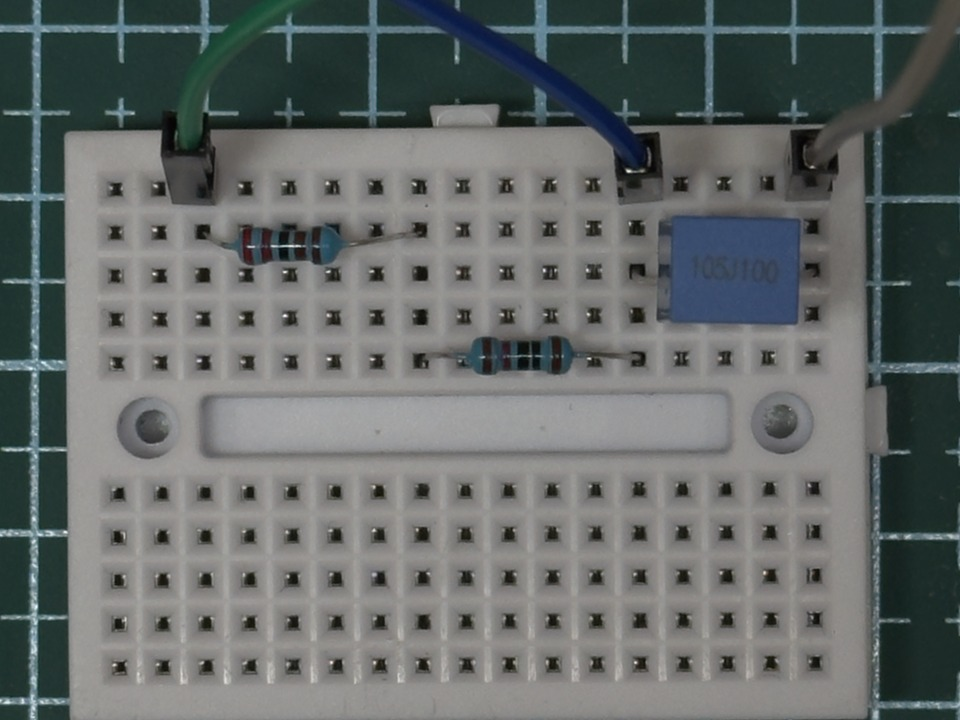
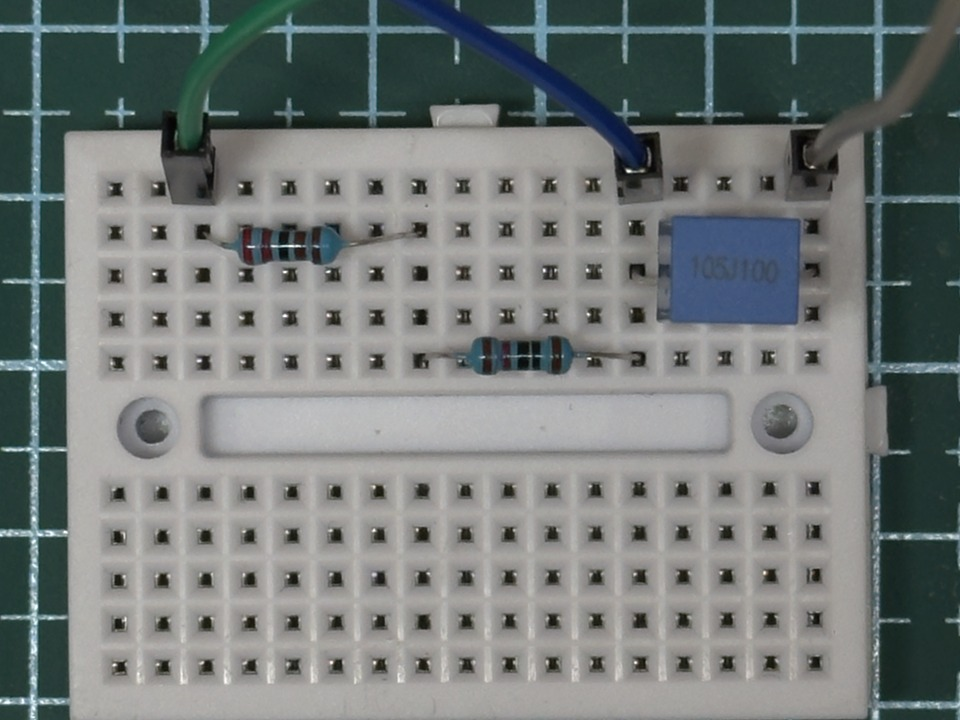
Site: landing for the judges' first minute, the bench section, one brightness lift
- Landing: claim → scope → "Counted from the records" strip → one block per case with its
  fault replay, restored rerun and report (the separate replay list is gone, numbers read
  01–05 once) → "The bench" → How a run works → Who does what → Built during the hackathon.
- The bench: whole-bench photo from examples/bench-photos/2026-11-04/full/render.png (cropped,
  brightened uniformly, no metadata; tools/photos-bench.json), an inline SVG of the signal chain
  (DAC → LM358 follower → 1 kΩ → IN; OUT → follower → 14-bit ADC; buffered 1.63 V REF; 3 mV
  guard; 9 mV allowance; 9.99 kΩ load on request) and a Source / Recorder / Reference /
  Allowance / Operator / Cost table, from docs/build-your-own.md.
- Board crops: one uniform brightness lift (×1.15) in tools/photo_derivatives.py, recorded in
  every photos-case0N.json; nothing else changed.
- Phone layout of the case blocks fixed (text no longer falls into the number column).
- Checks: all 20 replay/viewport combinations reach the verdict, 0 console errors, 0 overflow.

Claude-Session: https://claude.ai/code/session_016yJ6onsusv49FZT69Jxk9m

diff --git a/site/index.html b/site/index.html
@@ -13,13 +13,13 @@
 <body>
 <header class="bar">
   <a class="brand" href="index.html"><img src="assets/mark.svg" alt=""> BenchMate</a>
-  <nav><a href="#replays">Replays</a><a href="#cases">Cases</a><a href="#how" class="lng">How it works</a><a href="https://github.com/bami-codes/BenchMate">GitHub</a></nav>
+  <nav><a href="#cases">Cases</a><a href="#bench">The bench</a><a href="#how" class="lng">How it works</a><a href="#built">Built</a><a href="https://github.com/bami-codes/BenchMate">GitHub</a></nav>
 </header>
 
 <section class="claim claim-top" aria-label="What this is">
   <h1>The drawing is right. The board is right. <span class="wrong">The output is wrong.</span></h1>
-  <p>BenchMate finds where a real circuit disagrees with its schematic. Muse Spark reads the drawing and designs experiments on the real board until only one explanation is left.</p>
-  <div class="ctas"><a class="btn" id="cta-replay" href="run.html">Watch Spark find out why</a><a class="btn ghost" href="#cases" id="cta-cases">See the cases</a></div>
+  <p>BenchMate gives Muse Spark a real bench. It reads the schematic, chooses experiments on the real circuit, must forecast each one before an Arduino measures it, and keeps crossing out explanations until one is left. Five faults were planted on five boards and sealed; the model found where each board disagreed with its drawing, and every step is a record you can check.</p>
+  <div class="ctas"><a class="btn" id="cta-replay" href="run.html">Watch Spark find out why</a><a class="btn ghost" href="#cases" id="cta-cases">See the five cases</a></div>
 </section>
 
 <section class="hero" aria-label="The scope">
@@ -32,21 +32,86 @@
 
 <section class="claim claim-under"><div class="small" id="hero-caption" style="opacity:.9"></div></section>
 
-<section class="section" id="replays">
+<section class="section" id="score" hidden>
   <div class="paper">
-    <h2>Watch a diagnosis</h2>
-    <p class="lede">Recorded runs on the real bench, replayed from their logs in order. Before each measurement the dashed forecasts are drawn; then the measured trace sweeps over them and the needles move. Click any number for the log event behind it.</p>
-    <div class="cases" id="replay-list"></div>
+    <h2>Counted from the records</h2>
+    <p class="lede" id="score-note"></p>
+    <div class="score" id="score-grid"></div>
+    <p class="small muted" id="score-foot" style="margin-top:10px"></p>
   </div>
 </section>
 
 <section class="section" id="cases">
   <div class="paper">
-    <h2 id="cases-h">Cases from real forum threads</h2>
+    <h2 id="cases-h">Five cases from real forum threads</h2>
     <p class="small muted" id="cases-count"></p>
-    <p class="lede">Each case rebuilds a problem whose cause was settled in the thread, scaled to the bench: the first power-on moment, when the drawing is right and the board still misbehaves. Every case has its own circuit on the mini board and its own drawing; all use the same procedure, the same test menu and the same fixture.</p>
+    <p class="lede">Each case rebuilds a problem whose cause was settled in the thread, scaled to the bench: the first power-on moment, when the drawing is right and the board still misbehaves. Every case has its own circuit on the mini board and its own drawing; all use the same procedure, the same test menu and the same fixture. Each replay is a recorded run played back from its log in order: the dashed forecasts are drawn, then the measured trace sweeps over them and the needles move. Click any number for the log event behind it.</p>
     <div class="cases" id="case-list"></div>
+    <div id="dev-records"></div>
     <div id="policy" class="small muted" style="margin-top:12px"></div>
+  </div>
+</section>
+
+<section class="section" id="bench">
+  <div class="paper">
+    <h2>The bench</h2>
+    <p class="lede">One Arduino, two op-amp followers, a reference, and a mini board that holds the circuit under test. About $40 of parts. The model never touches it: it asks, the operator moves one jumper, the Arduino measures.</p>
+    <div class="bench-grid">
+      <figure class="bench-photo">
+        <img src="assets/photos/bench-full.jpg" alt="The whole bench from above: an Arduino UNO R4 Minima at the top right, the instrument breadboard with two LM358 followers across the middle, and the mini board under test at the bottom, all on a cutting mat" loading="lazy">
+        <figcaption class="small muted">The whole bench, photographed from above. Arduino UNO R4 Minima (top right), the instrument board (middle), the mini board under test (bottom). Brightened uniformly for the page; nothing else edited (<code>tools/photos-bench.json</code>).</figcaption>
+      </figure>
+      <div class="bench-side">
+        <div class="bench-diagram" aria-label="Signal chain of the bench">
+          <svg viewBox="0 0 760 300" role="img" aria-label="Signal chain: Muse Spark chooses; the engine forecasts; the Arduino drives IN through a follower and a 1 kΩ resistor, the mini board's OUT comes back through a follower to the ADC, REF is a buffered 1.63 V; the operator moves one jumper and takes one multimeter reading when asked.">
+            <defs><marker id="ar" viewBox="0 0 10 10" refX="9" refY="5" markerWidth="7" markerHeight="7" orient="auto-start-reverse"><path d="M0 0L10 5 0 10z" fill="#4b535a"/></marker></defs>
+            <g font-family="Archivo Narrow, Arial, sans-serif" font-size="13" fill="#171b1e">
+              <rect x="14" y="18" width="150" height="54" rx="6" fill="#efe8ff" stroke="#7a4fd6" stroke-width="1.5"/>
+              <text x="89" y="40" text-anchor="middle" font-weight="600">Muse Spark 1.3</text><text x="89" y="58" text-anchor="middle" font-size="12" fill="#4b535a">chooses the experiment</text>
+              <rect x="196" y="18" width="150" height="54" rx="6" fill="#f0f0ea" stroke="#171b1e" stroke-width="1.5"/>
+              <text x="271" y="40" text-anchor="middle" font-weight="600">Fit engine · ngspice</text><text x="271" y="58" text-anchor="middle" font-size="12" fill="#4b535a">forecast, hash, push</text>
+              <rect x="378" y="18" width="150" height="54" rx="6" fill="#e3ecf7" stroke="#2b6bdc" stroke-width="1.5"/>
+              <text x="453" y="40" text-anchor="middle" font-weight="600">Arduino UNO R4</text><text x="453" y="58" text-anchor="middle" font-size="12" fill="#4b535a">DAC out · 14-bit ADC in</text>
+              <rect x="560" y="18" width="186" height="54" rx="6" fill="#fff6d6" stroke="#c9a227" stroke-width="1.5"/>
+              <text x="653" y="40" text-anchor="middle" font-weight="600">Operator</text><text x="653" y="58" text-anchor="middle" font-size="12" fill="#4b535a">one jumper · one DMM reading, when asked</text>
+              <line x1="164" y1="45" x2="196" y2="45" stroke="#4b535a" stroke-width="1.5" marker-end="url(#ar)"/>
+              <line x1="346" y1="45" x2="378" y2="45" stroke="#4b535a" stroke-width="1.5" marker-end="url(#ar)"/>
+              <line x1="528" y1="45" x2="560" y2="45" stroke="#4b535a" stroke-width="1.5" stroke-dasharray="4 3" marker-end="url(#ar)"/>
+              <!-- analogue chain -->
+              <text x="14" y="118" font-size="12" fill="#4b535a" font-weight="600">Analogue chain, 0–5 V, USB power only</text>
+              <rect x="14" y="132" width="78" height="40" rx="5" fill="#fff" stroke="#171b1e" stroke-width="1.5"/><text x="53" y="151" text-anchor="middle" font-weight="600">DAC</text><text x="53" y="165" text-anchor="middle" font-size="11" fill="#4b535a">step or sine</text>
+              <polygon points="112,134 112,170 146,152" fill="#fff" stroke="#171b1e" stroke-width="1.5"/><text x="129" y="188" text-anchor="middle" font-size="11" fill="#4b535a">LM358</text>
+              <rect x="166" y="144" width="54" height="16" fill="#fff" stroke="#171b1e" stroke-width="1.5"/><text x="193" y="137" text-anchor="middle" font-size="11.5">1 kΩ</text>
+              <line x1="92" y1="152" x2="112" y2="152" stroke="#171b1e" stroke-width="1.5"/><line x1="146" y1="152" x2="166" y2="152" stroke="#171b1e" stroke-width="1.5"/><line x1="220" y1="152" x2="262" y2="152" stroke="#1f9a52" stroke-width="3"/>
+              <circle cx="248" cy="152" r="4" fill="#1f9a52"/><text x="248" y="140" text-anchor="middle" font-size="12" font-weight="600" fill="#1f9a52">IN</text>
+              <rect x="262" y="118" width="206" height="68" rx="6" fill="#f6f7f4" stroke="#8c939a" stroke-width="1.5" stroke-dasharray="5 4"/>
+              <text x="365" y="141" text-anchor="middle" font-weight="600">mini board under test</text><text x="365" y="159" text-anchor="middle" font-size="12" fill="#4b535a">the circuit the drawing shows,</text><text x="365" y="174" text-anchor="middle" font-size="12" fill="#4b535a">plus one sealed fault</text>
+              <line x1="468" y1="152" x2="520" y2="152" stroke="#2b6bdc" stroke-width="3"/><circle cx="482" cy="152" r="4" fill="#2b6bdc"/><text x="482" y="140" text-anchor="middle" font-size="12" font-weight="600" fill="#2b6bdc">OUT</text>
+              <polygon points="520,134 520,170 554,152" fill="#fff" stroke="#171b1e" stroke-width="1.5"/><text x="537" y="188" text-anchor="middle" font-size="11" fill="#4b535a">LM358</text>
+              <line x1="554" y1="152" x2="580" y2="152" stroke="#171b1e" stroke-width="1.5"/>
+              <rect x="580" y="132" width="78" height="40" rx="5" fill="#fff" stroke="#171b1e" stroke-width="1.5"/><text x="619" y="151" text-anchor="middle" font-weight="600">ADC</text><text x="619" y="165" text-anchor="middle" font-size="11" fill="#4b535a">512 frames / 0.5 ms</text>
+              <text x="705" y="148" font-size="11.5" fill="#4b535a">IN, OUT and</text><text x="705" y="162" font-size="11.5" fill="#4b535a">REF, every run</text>
+              <!-- REF -->
+              <line x1="365" y1="186" x2="365" y2="222" stroke="#8b949b" stroke-width="3"/>
+              <line x1="120" y1="222" x2="660" y2="222" stroke="#8b949b" stroke-width="3"/>
+              <circle cx="365" cy="222" r="4" fill="#8b949b"/>
+              <text x="120" y="244" font-size="12" font-weight="600" fill="#5b646b">REF · a buffered 1.63 V, not ground</text>
+              <text x="120" y="260" font-size="11.5" fill="#4b535a">the bench watches its own reference on every capture and stops the run if it drifts more than 3 mV</text>
+              <rect x="470" y="196" width="118" height="20" rx="4" fill="#fff" stroke="#8b949b" stroke-width="1.2" stroke-dasharray="4 3"/><text x="529" y="210" text-anchor="middle" font-size="11" fill="#4b535a">9.99 kΩ load, on request</text>
+              <text x="14" y="290" font-size="11.5" fill="#4b535a">Every explanation is a circuit model; the engine simulates it with the measured IN and forecasts OUT. A miss above 9 mV, whole step or any region, rules it out.</text>
+            </g>
+          </svg>
+        </div>
+        <dl class="kv small bench-kv">
+          <dt>Source</dt><dd>Arduino UNO R4 Minima DAC through an LM358 follower and a 1 kΩ drive resistor. Steps of ±0.2 / ±0.5 V and sines of 1–5 Hz, from a fixed menu Spark picks from.</dd>
+          <dt>Recorder</dt><dd>14-bit ADC, 512 frames per capture at 0.5 ms, three channels: IN, buffered OUT, REF. Captures are rejected across reboots; each run starts from a fresh boot id.</dd>
+          <dt>Reference</dt><dd>A buffered divider near 1.63 V is the return for the circuit under test. A guard checks it on every capture; a drift above 3 mV stops the run and nothing is scored.</dd>
+          <dt>Allowance</dt><dd>9 mV RMS between forecast and measurement, on the whole step and on every region of it. Frozen before the first run and never changed.</dd>
+          <dt>Operator</dt><dd>Connects or removes the 9.99 kΩ load when Spark asks, USB off; takes one multimeter reading when Spark asks; never tells the model what the fault is.</dd>
+          <dt>Cost</dt><dd>About ₩56,000 ($40) of parts including spares, plus a multimeter. <a href="https://github.com/bami-codes/BenchMate/blob/main/docs/build-your-own.md">Build notes</a>.</dd>
+        </dl>
+      </div>
+    </div>
   </div>
 </section>
 
@@ -71,20 +136,26 @@
   <div class="paper">
     <h2>Who does what</h2>
     <dl class="who">
-      <dt>Muse Spark 1.3 vision</dt><dd>Reads the schematic into parts, values and connections, with a box per part.</dd>
-      <dt>Muse Spark 1.3</dt><dd>Chooses every experiment from the fixed menu and says why; asks for the bench to be rewired; decides when to ask for the check; may propose a part the drawing lacks.</dd>
-      <dt>Fit engine, ngspice</dt><dd>Fits each explanation to the measurements and forecasts the next one. Compares forecasts with the bench by RMS miss.</dd>
-      <dt>Bench, Arduino UNO R4</dt><dd>Two LM358 buffers, a 1 kΩ drive resistor, a 1.63 V reference and four ADC channels. A reference guard stops a run when the bench itself drifts.</dd>
-      <dt>SAM 3.1 + Muse Spark vision</dt><dd>After the diagnosis: SAM 3.1 segments the mini board photo; Spark vision is asked which body is which drawn part, and a person confirms. When it names none (case 02), the bodies are read without a pairing and the bands frozen first decide which is which. No part values are read from the photo; values come from readings at the bench, forecast first.</dd>
+      <dt>Muse Spark 1.3 vision</dt><dd>Reads the schematic into parts, values and connections, with a box per part. After the diagnosis, looks at the board photo with SAM 3.1's bodies and says which body is the part to read (cases 01, 03, 05), or that it cannot tell (case 02).</dd>
+      <dt>Muse Spark 1.3 agent</dt><dd>Chooses every experiment from the fixed menu and says why; asks for the bench to be rewired; decides when to ask for the check; proposes a part the drawing lacks when every value explanation has failed (cases 04, 05); chooses which part to read and which quantity (cases 01, 02, 03, 05).</dd>
+      <dt>SAM 3.1</dt><dd>Segments the mini board photo into bodies with one generic prompt, after the diagnosis. Its masks are shown as drawn; no part value is read from the photo, ever.</dd>
+      <dt>Fit engine, ngspice</dt><dd>Fits each explanation to the measurements and forecasts the next one. Compares forecasts with the bench by RMS miss. Freezes and publishes before every scored measurement.</dd>
+      <dt>Bench, Arduino UNO R4</dt><dd>Two LM358 buffers, a 1 kΩ drive resistor, a 1.63 V reference and the ADC channels. A reference guard stops a run when the bench itself drifts.</dd>
+      <dt>Operator</dt><dd>Builds the circuit with the sealed fault, moves one jumper when asked, reads one value when asked, and never tells the model what is wrong.</dd>
     </dl>
   </div>
 </section>
 
-<section class="section" id="score" hidden>
+<section class="section" id="built">
   <div class="paper">
-    <h2>Counted from the records</h2>
-    <p class="lede" id="score-note"></p>
-    <div class="score" id="score-grid"></div>
+    <h2>Built during the hackathon</h2>
+    <p class="lede">Everything on this page was made between 27 October and 4 November 2026 by one person and two coding agents: the instrument firmware, the bench, the fit engine, the Spark tool loop, the reading and seal protocol, the photo stage, this site, and the five physical runs themselves. The first commit is the start of the project.</p>
+    <div class="built-grid">
+      <div><h3>Meta models</h3><p class="small">Muse Spark 1.3 (agent and vision) through the Meta Model API for every experiment choice, structure proposal, schematic read and body call; SAM 3.1 for every board segmentation. 101 Spark calls and 6 SAM calls across the five cases, about $1.01.</p></div>
+      <div><h3>What is new</h3><p class="small">The model is not asked to explain a measurement someone made. It designs the measurement, commits to its forecast first, and is scored by code against a fault it was never told. The experiments did not exist until the model asked for them.</p></div>
+      <div><h3>What is not claimed</h3><p class="small">Five completed cases are not an accuracy rate. Failed and abstained attempts are kept in the public ledger and named on the reports. Restored reruns show "no mismatch in the tests Spark chose", not a proof that every part is correct. The cases were known to the developers; this is not a blind test.</p></div>
+      <div><h3>Open</h3><p class="small">MIT-licensed repository with every event log, forecast hash, Spark request and verifier: <a href="https://github.com/bami-codes/BenchMate">github.com/bami-codes/BenchMate</a>. <code>python -m benchmate verify &lt;run folder&gt;</code> re-checks any record offline.</p></div>
+    </div>
   </div>
 </section>
 

diff --git a/site/assets/landing.js b/site/assets/landing.js
@@ -1,4 +1,4 @@
-// Landing: the claim, the scope, then the cases. Everything shown is read from data/.
+// Landing: the claim, the scope, the numbers, then the five cases with their recorded runs. Everything shown is read from data/.
 (async () => {
   const { $, el, expName, fmtUSD, fmtDate, schematic, boardSVG, Scope, stepTraces, stepTime, verdictWords, REDUCED, ev } = BM;
   const [cases, index, results, policy] = await Promise.all([BM.loadCases(), BM.loadRuns(), BM.loadResults(), BM.json('data/official-run-policy.json').catch(() => null)]);
@@ -42,51 +42,46 @@
     if (c01?.board) { $('#hero-board').append(boardSVG(c01.board, { crop: true })); $('#hero-board-note').textContent = 'Diagram from the wiring record; photo pending.'; }
   }
 
-  // ---- replays
-  const rl = $('#replay-list');
-  if (!runs.length) rl.append(el('p', { class: 'muted' }, 'No recorded runs yet.'));
-  const ordered = anyCounted ? [...runs.filter(r => r.counted), ...runs.filter(r => !r.counted)] : runs;
-  let devHead = false;
-  for (const r of ordered) {
-    if (anyCounted && !r.counted && !devHead) { devHead = true; rl.append(el('h3', { class: 'group-head' }, 'Development records'), el('p', { class: 'small muted' }, 'Pilots and QA runs that shaped the bench. Not counted, kept in full.')); }
-    const c = cases.cases.find(x => x.id === r.case);
-    const outcome = r.outcome === 'stopped' ? 'stopped by the reference guard' : r.display_caption ? r.display_caption : r.state === 'faulted' && r.survivors?.length === 1 ? (r.verdict === 'structure_supported' ? (r.reading === 'one' ? 'Spark proposed a part the drawing does not show; held-back checks passed; one reading, bands frozen first, placed it; seal opened' : 'Spark proposed a part the drawing does not show; held-back checks passed; seal opened') : r.reading === 'group' ? 'one explanation left after the tests; two readings, bands frozen first, fixed which body; seal opened' : 'one explanation left after one reading; seal opened') : r.verdict ? verdictWords({ verdict: r.verdict, survivors: r.survivors }, {}) : r.outcome;
-    rl.append(el('div', { class: 'case-row', style: 'grid-template-columns:40px minmax(0,1fr) auto' },
-      el('div', { class: 'n' }, r.case),
-      el('div', {}, el('h3', {}, c.title, ' ', el('span', { class: 'small muted' }, `· ${r.label}, ${fmtDate(r.started_utc)}`)),
-        el('p', { class: 'small muted' }, `${r.steps} experiments · ${r.spark_calls} Spark calls · ${fmtUSD(r.spark_cost)} est. · ${outcome}`)),
-      el('div', { class: 'acts' }, el('span', { class: 'badge ' + (r.counted ? 'live' : r.pilot ? 'pilot' : 'pending') }, r.class_label || (r.pilot ? 'Pilot run — not counted' : 'Counted run')),
-        el('a', { class: 'btn sm', href: `run.html?run=${r.id}` }, 'Replay'), el('a', { class: 'btn ghost sm', href: `case.html?id=${r.case}&run=${r.id}` }, 'Report'))));
-  }
-
-  // ---- cases: one verified forum line each, the preregistered order and selection rule
-  const cl = $('#case-list');
-  { const withRuns = cases.cases.filter(c => runs.some(r => r.case === c.id)).length; $('#cases-count').textContent = `${cases.cases.length} cases, ${withRuns} with recorded runs.`; }
-  const slotsOf = id => (policy?.ordered_slots || []).filter(s => s.case_id === id);
-  for (const c of cases.cases) {
-    const rs = runs.filter(r => r.case === c.id);
-    const thumb = el('div', { class: 'thumb' }); thumb.append(await schematic(c.design));
-    const counted = rs.filter(r => r.counted);
-    const status = counted.length ? el('span', { class: 'badge live' }, `${counted.length} counted run${counted.length > 1 ? 's' : ''}`) : rs.length ? el('span', { class: 'badge pilot' }, 'Pilot run — not counted') : el('span', { class: 'badge pending' }, 'Not run yet');
-    const slots = slotsOf(c.id);
-    cl.append(el('div', { class: 'case-row' },
-      el('div', { class: 'n' }, c.id), thumb,
-      el('div', {}, el('h3', {}, c.title), el('p', {}, c.symptom || c.problem), el('p', { class: 'src' }, 'Source: ', el('a', { href: c.source.url, target: '_blank', rel: 'noopener' }, `${c.source.site}: ${c.source.title}`), c.source.date ? `, ${c.source.date.slice(0, 7)}` : ''),
-        slots.length ? el('p', { class: 'small faint' }, `Official slots: ${slots.map(s => { const done = rs.find(r => r.counted && r.state === s.state); return `${s.slot_id} (${s.state}, ${done ? 'completed' : s.status.replace(/_/g, ' ')})`; }).join(', ')}${c.id === policy?.selection?.structure_spotlight?.priority?.[0]?.slice(0, 2) ? ' · structure-proposal spotlight, first priority' : c.id === policy?.selection?.structure_spotlight?.priority?.[1]?.slice(0, 2) ? ' · structure-proposal spotlight, second priority' : ''}`) : null),
-      el('div', { class: 'acts' }, status, rs.length ? el('a', { class: 'btn sm', href: `run.html?run=${BM.defaultRun(runs, c.id).id}` }, 'Replay') : null, el('a', { class: 'btn ghost sm', href: `case.html?id=${c.id}` }, 'Report'))));
-  }
-  if (policy) {
-    const shown = cases.cases.map(c => c.id); const order = (policy.case_order || []).filter(id => shown.includes(id));
-    $('#policy').append(el('p', {}, `The order of the cases and the demo selection rule were registered before any official result (${policy.cohort_plan_id}, ${policy.created_local_date}); the cases ran ${order.join(' → ')}, each a fault run then a restored rerun. ${policy.display_rule_2026_11_04 ? policy.display_rule_2026_11_04.text + ' ' : `each case page shows the first started official attempt for that state, whatever its outcome. ${policy.selection_rule ? policy.selection_rule + '. ' : ''}`}Where a restored attempt reached a verdict other than consistency, the counted later attempt is shown and the earlier one is named on the report. Case 01 was known to the developers and is not a blind test. Runs made while the pipeline was still being built are development records and are never counted.`));
-  }
-
-  // ---- verify box (short)
-  $('#verify-short').append(el('h3', {}, 'Verify it yourself'), el('p', { class: 'small muted' }, 'Every run is an append-only event log; each event carries its sha256 and the previous one. On any replay, click a number to see its event. In the repository, ', el('code', {}, 'python -m benchmate verify <run folder>'), ' prints PASS or FAIL and the number of events checked: the full hash chain, the frozen-forecast hashes and the forecast → measurement order, including the physical CAPTURE order. It proves the record’s internal integrity and order, not when it was written. Details: docs/2026-11-03-offline-verification.md.'));
-
   // ---- scoreboard: hidden until official result files exist
   if (results && results.official_runs?.length) {
     $('#score').hidden = false;
-    $('#score-note').textContent = `${results.official_runs.length} official runs, scored by code against the sealed faults. Updated ${fmtDate(results.updated_utc)}.`;
+    $('#score-note').textContent = `${results.official_runs.length} official runs on the real bench, scored by code against the sealed faults. Updated ${fmtDate(results.updated_utc)}.`;
     for (const m of results.metrics) $('#score-grid').append(el('div', { class: 'k' }, el('b', {}, m.value ?? '—'), el('span', {}, m.label)));
+    $('#score-foot').textContent = 'Counts, not a rate: every attempt is in the public ledger, including the ones that stopped, abstained or were miswired; the reports name them. Costs are estimates from recorded tokens at the published rates.';
   }
+
+  // ---- the cases: one row per case with its recorded runs (fault run, restored rerun), in case order
+  const cl = $('#case-list');
+  const counted = runs.filter(r => r.counted);
+  { const withRuns = cases.cases.filter(c => counted.some(r => r.case === c.id)).length; $('#cases-count').textContent = `${cases.cases.length} cases, ${withRuns} with official runs, ${counted.length} official runs in all.`; }
+  const outcomeLine = (r) => r.outcome === 'stopped' ? 'stopped by the reference guard' : r.display_caption ? r.display_caption : r.state === 'faulted' && r.survivors?.length === 1 ? (r.verdict === 'structure_supported' ? (r.reading === 'one' ? 'Spark proposed a part the drawing does not show; held-back checks passed; one reading, bands frozen first, placed it; seal opened' : 'Spark proposed a part the drawing does not show; held-back checks passed; seal opened') : r.reading === 'group' ? 'one explanation left after the tests; two readings, bands frozen first, fixed which body; seal opened' : 'one explanation left after one reading; seal opened') : r.verdict ? verdictWords({ verdict: r.verdict, survivors: r.survivors }, {}) : r.outcome;
+  const runLine = (r) => el('div', { class: 'run-line' },
+    el('a', { class: 'btn sm' + (r.state === 'restored' ? ' ghost' : ''), href: `run.html?run=${r.id}` }, r.state === 'restored' ? 'Restored rerun' : 'Replay the diagnosis'),
+    el('span', { class: 'small' }, el('b', {}, r.label), ` · ${fmtDate(r.started_utc)} · ${r.steps} experiments · ${r.spark_calls} Spark calls${r.sam_calls ? ` · ${r.sam_calls} SAM` : ''} · ${fmtUSD(r.spark_cost)} est.`, el('span', { class: 'muted' }, ` — ${outcomeLine(r)}`)),
+    el('a', { class: 'small rep', href: `case.html?id=${r.case}&run=${r.id}` }, 'Report'));
+  for (const c of cases.cases) {
+    const rs = counted.filter(r => r.case === c.id).sort((a, b) => a.started_utc < b.started_utc ? -1 : 1);
+    const thumb = el('div', { class: 'thumb' }); thumb.append(await schematic(c.design));
+    const status = rs.length ? el('span', { class: 'badge live' }, rs[0].class_label || 'Official run') : el('span', { class: 'badge pending' }, 'Not run yet');
+    cl.append(el('div', { class: 'case-row case-block' },
+      el('div', { class: 'n' }, c.id), thumb,
+      el('div', {}, el('h3', {}, c.title), el('p', {}, c.symptom || c.problem), el('p', { class: 'src' }, 'Source: ', el('a', { href: c.source.url, target: '_blank', rel: 'noopener' }, `${c.source.site}: ${c.source.title}`), c.source.date ? `, ${c.source.date.slice(0, 7)}` : ''),
+        el('div', { class: 'runs' }, ...rs.map(runLine))),
+      el('div', { class: 'acts' }, status)));
+  }
+  // development records: pilots and QA runs, not counted, kept in full
+  const dev = runs.filter(r => !r.counted);
+  if (anyCounted && dev.length) {
+    const box = $('#dev-records');
+    box.append(el('h3', { class: 'group-head' }, 'Development records'), el('p', { class: 'small muted' }, 'Pilots that shaped the bench before the pipeline was frozen. Not counted, kept in full.'));
+    for (const r of dev) { const c = cases.cases.find(x => x.id === r.case);
+      box.append(el('div', { class: 'run-line dev' }, el('a', { class: 'btn ghost sm', href: `run.html?run=${r.id}` }, 'Replay'), el('span', { class: 'small' }, el('b', {}, `Case ${r.case} · ${r.label}`), ` · ${fmtDate(r.started_utc)} · ${r.steps} experiments · ${r.spark_calls} Spark calls · ${fmtUSD(r.spark_cost)} est.`, el('span', { class: 'muted' }, ` — ${outcomeLine(r)}`)), el('span', { class: 'badge pilot' }, r.class_label || 'Pilot run — not counted'), el('a', { class: 'small rep', href: `case.html?id=${r.case}&run=${r.id}` }, 'Report'))); }
+  }
+  if (policy) {
+    const shown = cases.cases.map(c => c.id); const order = (policy.case_order || []).filter(id => shown.includes(id));
+    $('#policy').append(el('p', {}, `The order of the cases and the demo selection rule were registered before any official result (${policy.cohort_plan_id}, ${policy.created_local_date}); the cases ran ${order.join(' → ')}, each a fault run then a restored rerun. ${policy.display_rule_2026_11_04 ? policy.display_rule_2026_11_04.text + ' ' : `each case page shows the first started official attempt for that state, whatever its outcome. ${policy.selection_rule ? policy.selection_rule + '. ' : ''}`}Where a restored attempt reached a verdict other than consistency, the counted later attempt is shown and the earlier one is named on the report. The cases were known to the developers; this is not a blind test. Runs made while the pipeline was still being built are development records and are never counted.`));
+  }
+
+  // ---- verify box (short)
+  $('#verify-short').append(el('h3', {}, 'Verify it yourself'), el('p', { class: 'small muted' }, 'Every run is an append-only event log; each event carries its sha256 and the previous one. On any replay, click a number to see its event. In the repository, ', el('code', {}, 'python -m benchmate verify <run folder>'), ' prints PASS or FAIL and the number of events checked: the full hash chain, the frozen-forecast hashes and the forecast → measurement order, including the physical CAPTURE order. It proves the record’s internal integrity and order, not when it was written; the forecast commits on GitHub carry the time. Details: docs/2026-11-03-offline-verification.md.'));
 })();

diff --git a/site/assets/v3.css b/site/assets/v3.css
@@ -429,3 +429,21 @@ footer a{color:#fff}
 @media (max-width:480px){.assign-table{display:table;width:100%}.assign-table thead{display:none}.assign-table tr{display:block;padding:6px 0;border-bottom:1px solid var(--rule)}.assign-table td{display:block;padding:2px 0;border:0}}
 /* a label beside a body, outside it: arrow points left at the outline */
 .photo .masklabel.side{transform:translate(0,-50%)}.photo .masklabel.side::before{left:-5px;top:50%;transform:translateY(-50%);border:5px solid transparent;border-left:0;border-right-color:#1b1f24;border-bottom-color:transparent}
+
+/* ---------- landing round 4: one block per case with its runs; the bench; built ---------- */
+.case-block{align-items:start}
+.case-block .runs{margin-top:10px;display:flex;flex-direction:column;gap:6px}
+.run-line{display:flex;align-items:center;gap:10px;flex-wrap:wrap;padding:6px 8px;border-radius:var(--radius);background:var(--paper-2)}
+.run-line .btn{flex:none}
+.run-line .rep{margin-left:auto;color:var(--out)}
+.run-line.dev{margin-top:6px;background:transparent;border:1px dashed var(--rule)}
+.bench-grid{display:grid;grid-template-columns:minmax(0,420px) minmax(0,1fr);gap:22px;align-items:start;margin-top:8px}
+@media (max-width:900px){.bench-grid{grid-template-columns:1fr}}
+.bench-photo{margin:0}.bench-photo img{display:block;width:100%;height:auto;border-radius:6px;border:1px solid var(--rule)}
+.bench-photo figcaption{margin-top:6px}
+.bench-diagram{background:#fff;border:1px solid var(--rule);border-radius:6px;padding:8px}
+.bench-diagram svg{display:block;width:100%;height:auto}
+.bench-kv{margin-top:12px;grid-template-columns:96px minmax(0,1fr)}
+.built-grid{display:grid;grid-template-columns:repeat(auto-fit,minmax(230px,1fr));gap:16px 22px;margin-top:10px}
+.built-grid h3{font-size:16px;margin-bottom:4px}
+@media (max-width:760px){.case-row > :not(.n){grid-column:2}.case-row .n{grid-column:1;grid-row:1}.case-row .acts{justify-content:flex-start}}

diff --git a/site/case.html b/site/case.html
@@ -12,7 +12,7 @@
 <body>
 <header class="bar">
   <a class="brand" href="index.html"><img src="assets/mark.svg" alt=""> BenchMate</a>
-  <nav><a href="index.html#replays">Replays</a><a href="index.html#cases">Cases</a><a href="https://github.com/bami-codes/BenchMate">GitHub</a></nav>
+  <nav><a href="index.html#cases">Cases</a><a href="https://github.com/bami-codes/BenchMate">GitHub</a></nav>
 </header>
 <main class="report">
   <div class="paper" id="report"><p class="muted">Loading…</p></div>

diff --git a/site/run.html b/site/run.html
@@ -13,7 +13,7 @@
 <body>
 <header class="bar">
   <a class="brand" href="index.html"><img src="assets/mark.svg" alt=""> BenchMate</a>
-  <nav><a href="index.html#replays">Replays</a><a href="index.html#cases">Cases</a><a href="https://github.com/bami-codes/BenchMate">GitHub</a></nav>
+  <nav><a href="index.html#cases">Cases</a><a href="https://github.com/bami-codes/BenchMate">GitHub</a></nav>
 </header>
 
 <div class="shelf full" id="shelf">

diff --git a/site/tools/photo_derivatives.py b/site/tools/photo_derivatives.py
@@ -12,7 +12,8 @@ For each photo this writes, into assets/photos/:
 and merges the paths, crop box and provenance (source sha256, mask files, method) into tools/photos-caseNN.json.
 
 Framing rule: every photo was taken on the same fixed rig (phone vertical on a stand, mini board centred), so one window
-of the 1200×1600 frame, FRAME = [120, 380, 1080, 1100] (960×720, 4:3), is used for every case and state. Outline rule: a 3 px band just outside the mask, label-tape yellow, with a 1 px
+of the 1200×1600 frame, FRAME = [120, 380, 1080, 1100]
+BRIGHTEN = 1.15  # one uniform brightness lift for every board crop (the bench photos are dark); no colour or local edits (960×720, 4:3), is used for every case and state. Outline rule: a 3 px band just outside the mask, label-tape yellow, with a 1 px
 dark edge on both sides so it reads on the pale board. Masks are the native rasters (exact size, no resize).
 
   python3 tools/photo_derivatives.py            # write derivatives and photos-caseNN.json
@@ -20,7 +21,7 @@ dark edge on both sides so it reads on the pale board. Masks are the native rast
 """
 import argparse, hashlib, json, pathlib
 import numpy as np
-from PIL import Image
+from PIL import Image, ImageEnhance
 
 SITE = pathlib.Path(__file__).resolve().parents[1]
 REPO = SITE.parent
@@ -29,6 +30,7 @@ YELLOW = (255, 221, 0)
 EDGE = (27, 31, 36)
 BAND, EDGE_W = 3, 1
 FRAME = [120, 380, 1080, 1100]
+BRIGHTEN = 1.15  # one uniform brightness lift for every board crop (the bench photos are dark); no colour or local edits
 
 RC = 'examples/reading-cohort/2026-11-03/records'
 C03 = f'{RC}/20261104T051005-fac3d07c86'
@@ -108,7 +110,8 @@ def load_native(native, object_id):
 
 
 def write_jpeg(img, path):
-    img.convert('RGB').save(path, 'JPEG', quality=92, optimize=True, progressive=True)  # no EXIF, no ICC, no metadata
+    img = ImageEnhance.Brightness(img.convert('RGB')).enhance(BRIGHTEN)
+    img.save(path, 'JPEG', quality=92, optimize=True, progressive=True)  # no EXIF, no ICC, no metadata
 
 
 def main():
@@ -122,7 +125,7 @@ def main():
         prov['width'], prov['height'] = 1200, 1600
         prov['method'] = ('tools/photo_derivatives.py: one framing rule (the same 960×720 window of the 1200×1600 frame, FRAME) and one outline rule '
                           f'({BAND} px band just outside each native SAM 3.1 mask, label-tape yellow {YELLOW}, {EDGE_W} px dark edge) for every case; '
-                          'outlines only for masks a record ties to a part or a candidate; pixels of the photo untouched; JPEG q92 without metadata')
+                          f'outlines only for masks a record ties to a part or a candidate; one uniform brightness lift ×{BRIGHTEN} on every crop, no colour or local edits; JPEG q92 without metadata')
         for state, cfg in states.items():
             if cfg.get('input'):
                 src = REPO / cfg['input']; img = Image.open(src).convert('RGB'); src_sha = sha(src)

diff --git a/site/HANDOFF.md b/site/HANDOFF.md
@@ -11,8 +11,9 @@ under `site/` is ours. Deadline: submission target 4 Nov 22:00 KST, hard deadlin
 - Live site: https://bami-codes.github.io/BenchMate/ (deployed from `site/` to the gh-pages root;
   the older replay site lives under `/archive/`). Deployed by Codex until the five-case release; from
   then on the GitHub session deploys itself (see §7).
-- `site/index.html` + `assets/landing.js`: landing (hero scope, Drawn / Built tiles, replays, cases,
-  how a run works, who does what, scoreboard from `data/results.json`).
+- `site/index.html` + `assets/landing.js`: landing (claim, hero scope, Drawn / Built tiles, the scoreboard strip from
+  `data/results.json`, one block per case with its fault replay and restored rerun, development records, the bench
+  section, how a run works, who does what, built during the hackathon).
 - `site/run.html` + `assets/replay.js`: the replay (instrument shelf + lab notebook). `?run=<id>`,
   `?t=<seconds>`. The shelf collapses (toggle + auto on scroll, state in localStorage).
 - `site/case.html` + `assets/report.js`: the post-run report (dossier) per run.
@@ -33,6 +34,10 @@ under `site/` is ours. Deadline: submission target 4 Nov 22:00 KST, hard deadlin
   `tools/photos-case0N.json`. `case01-board-crop-full.png` / `case04-board-crop-full.png` are the clean
   hero/Built crops from the full-resolution renders; `case01-reading-evidence.png` is the DMM evidence image
   linked from the evidence popover only.
+- `assets/photos/bench-full.jpg` + `tools/photos-bench.json`: the whole-bench photo for "The bench" section (from
+  `examples/bench-photos/2026-11-04/full/render.png`, cropped, brightened uniformly, no metadata). The inline SVG signal-chain
+  diagram lives in `index.html`; its facts come from `docs/build-your-own.md` (DAC → LM358 follower → 1 kΩ → IN; OUT →
+  follower → ADC; buffered REF ≈ 1.63 V; 512 frames at 0.5 ms; 3 mV guard; 9 mV allowance; 9.99 kΩ load).
 - `tools/verify-case0N.json`: outputs of the keyless verifiers (run on the public copies), copied into the
   report's "Verify it yourself" box as written.
 - `tools/shots_all.js` (every counted run, both viewports, landing, all reports), `tools/shots*.js`,

diff --git a/site/DESIGN.md b/site/DESIGN.md
@@ -75,7 +75,7 @@ drawn only after the seal opens and was never part of the model input.
   restored root record carrying the original pair, the photo-binding follow-up and the reading continuation;
   the pair's local stop before Spark's body call is a notebook entry, not hidden).
 - One photo treatment for every case (`tools/photo_derivatives.py`): the same 960×720 window of the 1200×1600
-  SAM input, pixels untouched; a transparent outline layer (3 px label-tape yellow, 1 px dark edge) drawn only
+  SAM input, one uniform brightness lift, otherwise untouched; a transparent outline layer (3 px label-tape yellow, 1 px dark edge) drawn only
   from native SAM 3.1 masks that a record ties to a part or a candidate; documentary images (every native
   mask) behind a details toggle only. Case 01's yellow crop, case 02's green full-frame contours and Codex's
   green context crops for 03/05 are replaced by this one rule. Provenance per case in `tools/photos-case0N.json`.
@@ -84,3 +84,10 @@ drawn only after the seal opens and was never part of the model input.
   where nearby value-change models also fit, the "What this does not say" card names them.
 - `tools/shots_all.js`: every counted run at 1440 and 390 played at 16× to the verdict, landing and all reports;
   errors.txt must read "none".
+- Landing restructured for the judges' first minute: claim → scope → "Counted from the records" strip → one block per
+  case (fault replay + restored rerun + report, outcome line from the index) → "The bench" (the whole-bench photo,
+  `assets/photos/bench-full.jpg`, cropped and brightened uniformly from Codex's metadata-free render, provenance in
+  `tools/photos-bench.json`, plus an inline SVG of the signal chain and a Source / Recorder / Reference / Allowance /
+  Operator / Cost table) → How a run works → Who does what (Spark vision, Spark agent, SAM 3.1, engine, bench, operator)
+  → Built during the hackathon (dates, Meta models, what is new, what is not claimed, open). The separate "Watch a
+  diagnosis" list is gone: the runs sit under their case, so the numbers read 01–05 once.
